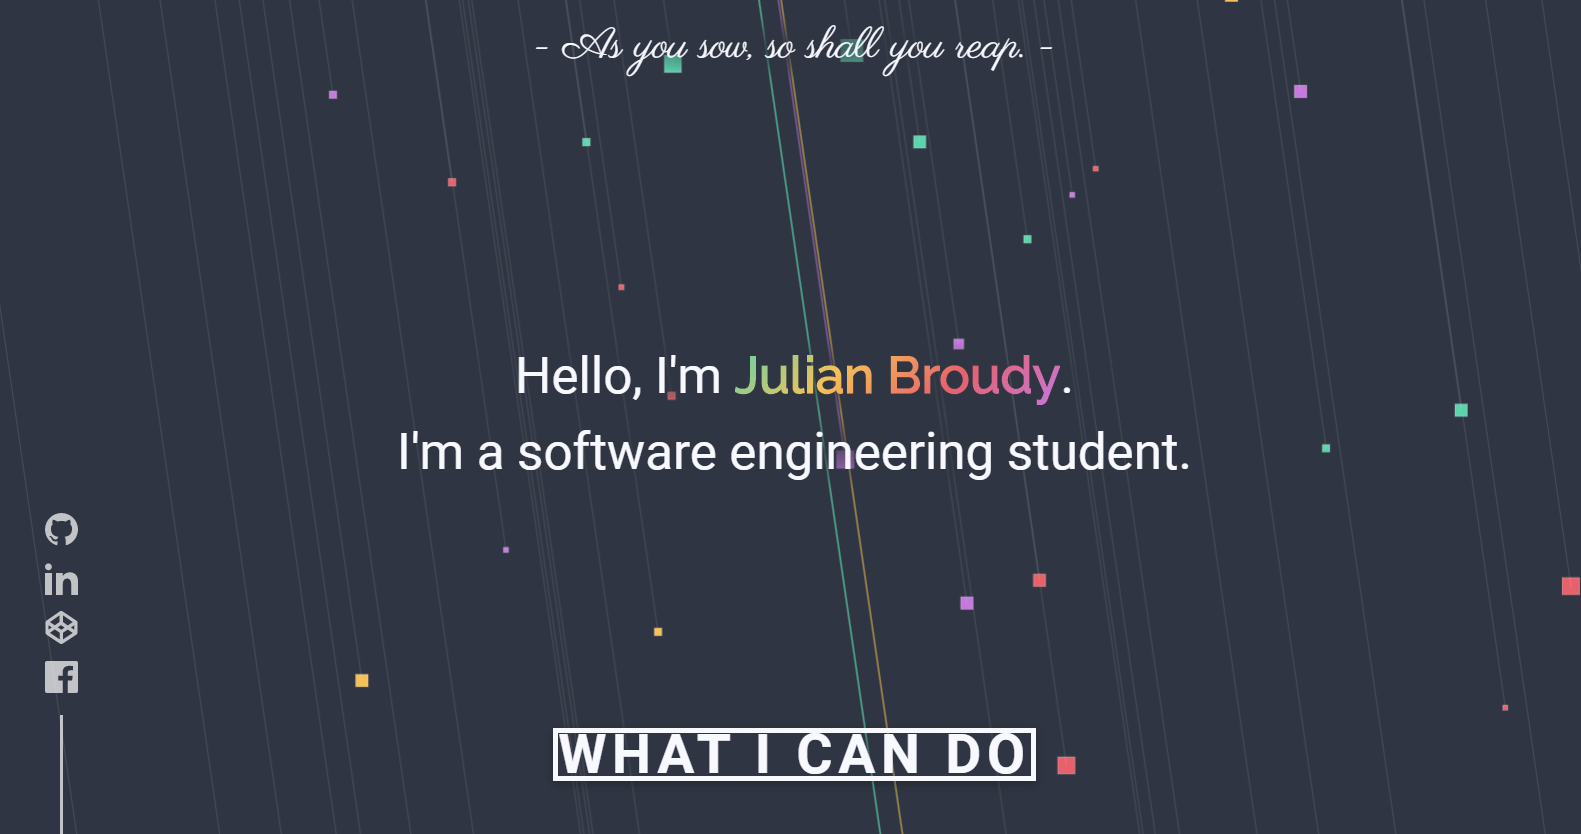
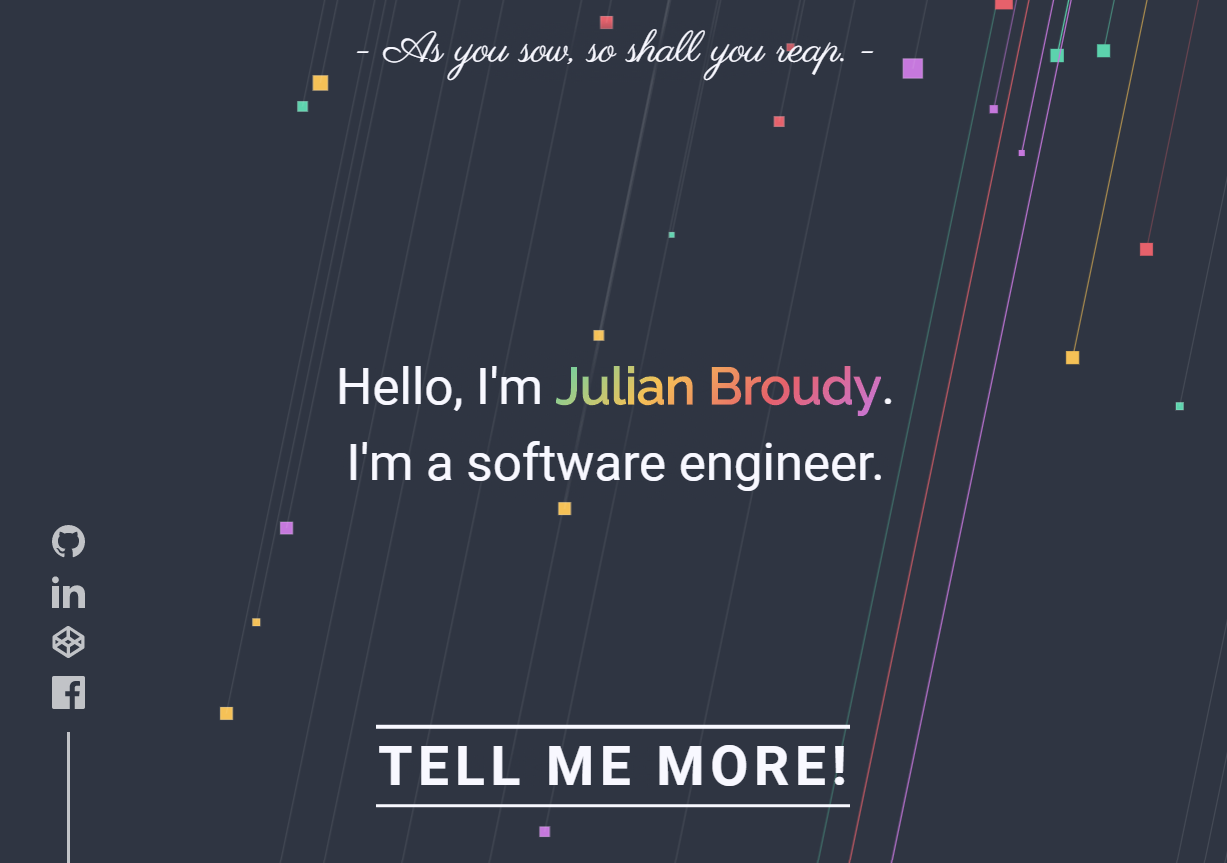
update welcome-screen button

diff --git a/index.html b/index.html
@@ -3,7 +3,7 @@
 
 <head>
   <meta charset="UTF-8">
-  <meta name="viewport"  content="width=device-width, initial-scale=1.0, maximum-scale=1, user-scalable=no">
+  <meta name="viewport" content="width=device-width, initial-scale=1.0, maximum-scale=1, user-scalable=no">
   <meta http-equiv="X-UA-Compatible" content="ie=edge">
   <meta name="author" content="Julian Broudy">
   <title>Julian Broudy</title>
@@ -13,12 +13,11 @@
   <meta property="og:type" content="website" />
   <meta property="og:url" content="http://www.broude.co.il/" />
   <meta property="og:image:type" content="image/png">
-  <meta property="og:image:url" content="http://broude.co.il/lib/images/broude3_thumb.png">
-  <meta property="og:image" itemprop="image" content="http://broude.co.il/lib/images/broude3_thumb.png">
+  <meta property="og:image:url" content="http://broude.co.il/lib/images/broude_thumb.png">
+  <meta property="og:image" itemprop="image" content="http://broude.co.il/lib/images/broude_thumb.png">
   <meta property="og:image:width" content="1200" />
   <meta property="og:image:height" content="630" />
   <meta property="og:description" content="Personal website that acts as a portfolio." />
-  <!-- <link itemprop="thumbnailUrl" href="http://broude.co.il/lib/images/broude3_thumb.png"> -->
 
 
   <!-- External -->
@@ -42,17 +41,17 @@
 
 <body>
   <script type="text/javascript">
-  		let isMobile = /iPhone|iPad|iPod|Android/i.test(navigator.userAgent);
-  		if (isMobile) {
-        let head = document.getElementsByTagName('head')[0];
+    let isMobile = /iPhone|iPad|iPod|Android/i.test(navigator.userAgent);
+    if (isMobile) {
+      let head = document.getElementsByTagName('head')[0];
 
-        let style = document.createElement('link');
-        style.href = "../lib/styles/mobile_style.css";
-        style.type = 'text/css';
-        style.rel = 'stylesheet';
-        head.append(style);
-  		}
-  	</script>
+      let style = document.createElement('link');
+      style.href = "../lib/styles/mobile_style.css";
+      style.type = 'text/css';
+      style.rel = 'stylesheet';
+      head.append(style);
+    }
+  </script>
   <div class="side_container">
 
     <a id="github_placeholder" href="https://github.com/JulianBroudy" target="_blank" aria-label="GitHub">
@@ -153,8 +152,7 @@
                 <li class="glide__slide">
                   <div class="project_showcase">
                     <div class="pr_pic">
-                      <img src="../lib/images/gcm-system.png" alt="">
-
+                      <a href="https://github.com/JulianBroudy/gcm-system#samples" target="_blank"><img src="../lib/images/gcm-system.png" alt=""></a>
                     </div>
                     <div class="pr_heading">
                       <div class="pr_title">GCM System</div>
@@ -206,8 +204,8 @@
                 <li class="glide__slide">
                   <div class="project_showcase">
                     <div class="pr_pic">
-                      <img src="../lib/images/skedaddle.png" alt="">
-
+                      <a href="https://github.com/JulianBroudy/skedaddle#samples" target="_blank"><img src="../lib/images/skedaddle.png" alt="">
+                      </a>
                     </div>
                     <div class="pr_heading">
                       <div class="pr_title">Skedaddle</div>
@@ -246,8 +244,8 @@
                 <li class="glide__slide">
                   <div class="project_showcase">
                     <div class="pr_pic">
-                      <img src="../lib/images/broude.png" alt="">
-
+                      <a href="https://github.com/JulianBroudy/my-portfolio" target="_blank"> <img src="../lib/images/broude3.png" alt="">
+                      </a>
                     </div>
                     <div class="pr_heading">
                       <div class="pr_title">Broude.co.il</div>

diff --git a/lib/styles/style.css b/lib/styles/style.css
@@ -386,10 +386,10 @@ a.bttn-dark:focus {
   font-weight: bold;
   font-family: "Roboto";
   padding: 1.05rem 0;
-  border: 0.4rem solid #f8f8ff;
+  /* border: 0.4rem solid #f8f8ff; */
   border-radius: auto;
   position: relative;
-  box-shadow: 0 0.2rem 1rem rgba(0, 0, 0, 0.16), 0 0.3rem 0.6rem rgba(0, 0, 0, 0.1);
+  /* box-shadow: 0 0.2rem 1rem rgba(0, 0, 0, 0.16), 0 0.3rem 0.6rem rgba(0, 0, 0, 0.1); */
   z-index: 2;
 }
 
@@ -420,18 +420,20 @@ a.bttn-dark:focus {
   content: "";
   position: absolute;
   background-color: #f8f8ff;
+  /* background-color: transparent; */
   transition: 0.5s ease;
-  height: 0.2rem;
-  width: 101%;
+  height: 0.3rem;
+  /* width: 101%; */
+  width: 100%;
   left: -2px;
 }
 
 .bttn-dark span::after {
-  top: -0.3rem;
+  top: -1.5rem;
 }
 
 .bttn-dark span::before {
-  bottom: -0.3rem;
+  bottom: -1.5rem;
 }
 
 .bttn-dark:active {
@@ -439,11 +441,11 @@ a.bttn-dark:focus {
 }
 
 .bttn-dark:active span::after {
-  top: -1rem;
+  top: -4rem;
 }
 
 .bttn-dark:active span::before {
-  bottom: -1rem;
+  bottom: -4rem;
 }
 
 .bttn-dark:focus span::after {

diff --git a/lib/index.js b/lib/index.js
@@ -59,16 +59,6 @@ function switchActiveLinkTo(link) {
   }
 }
 
-// document.getElementById("im_intrigued").addEventListener("click", function(){
-//   fullpage_api.moveTo('myProjects', 1);
-// });
-
-// $(document).on('click', '#moveTo', function(){
-//   fullpage_api.moveTo('myProjects', 2);
-// });
-
-
-
 
 
 //    _   _ _            ____        _   _
@@ -150,7 +140,7 @@ function translate() {
     yPercent: -100,
     scale: 0.8,
     opacity: 0,
-    duration: 10,
+    duration: 9,
     ease: "elastic.out(1.2,0.3)",
   }).from("#welcome_text-first_line", {
     // y: -100,
@@ -164,7 +154,7 @@ function translate() {
     // ease: "custom3"
     ease: "elastic.out(1,0.3)"
     // delay: 0.5
-  }, "<5").from("#welcome_text-second_line", {
+  }, "<2").from("#welcome_text-second_line", {
     // y: -100,
     yPercent: 500,
     scale: 0,
@@ -212,7 +202,7 @@ tm.from(".side_container", {
   yPercent: 100,
   scale: 0.5,
   duration: 3.5,
-  delay: 9,
+  delay: 7,
   ease: "elastic.out(1, 0.75)",
 });
 
